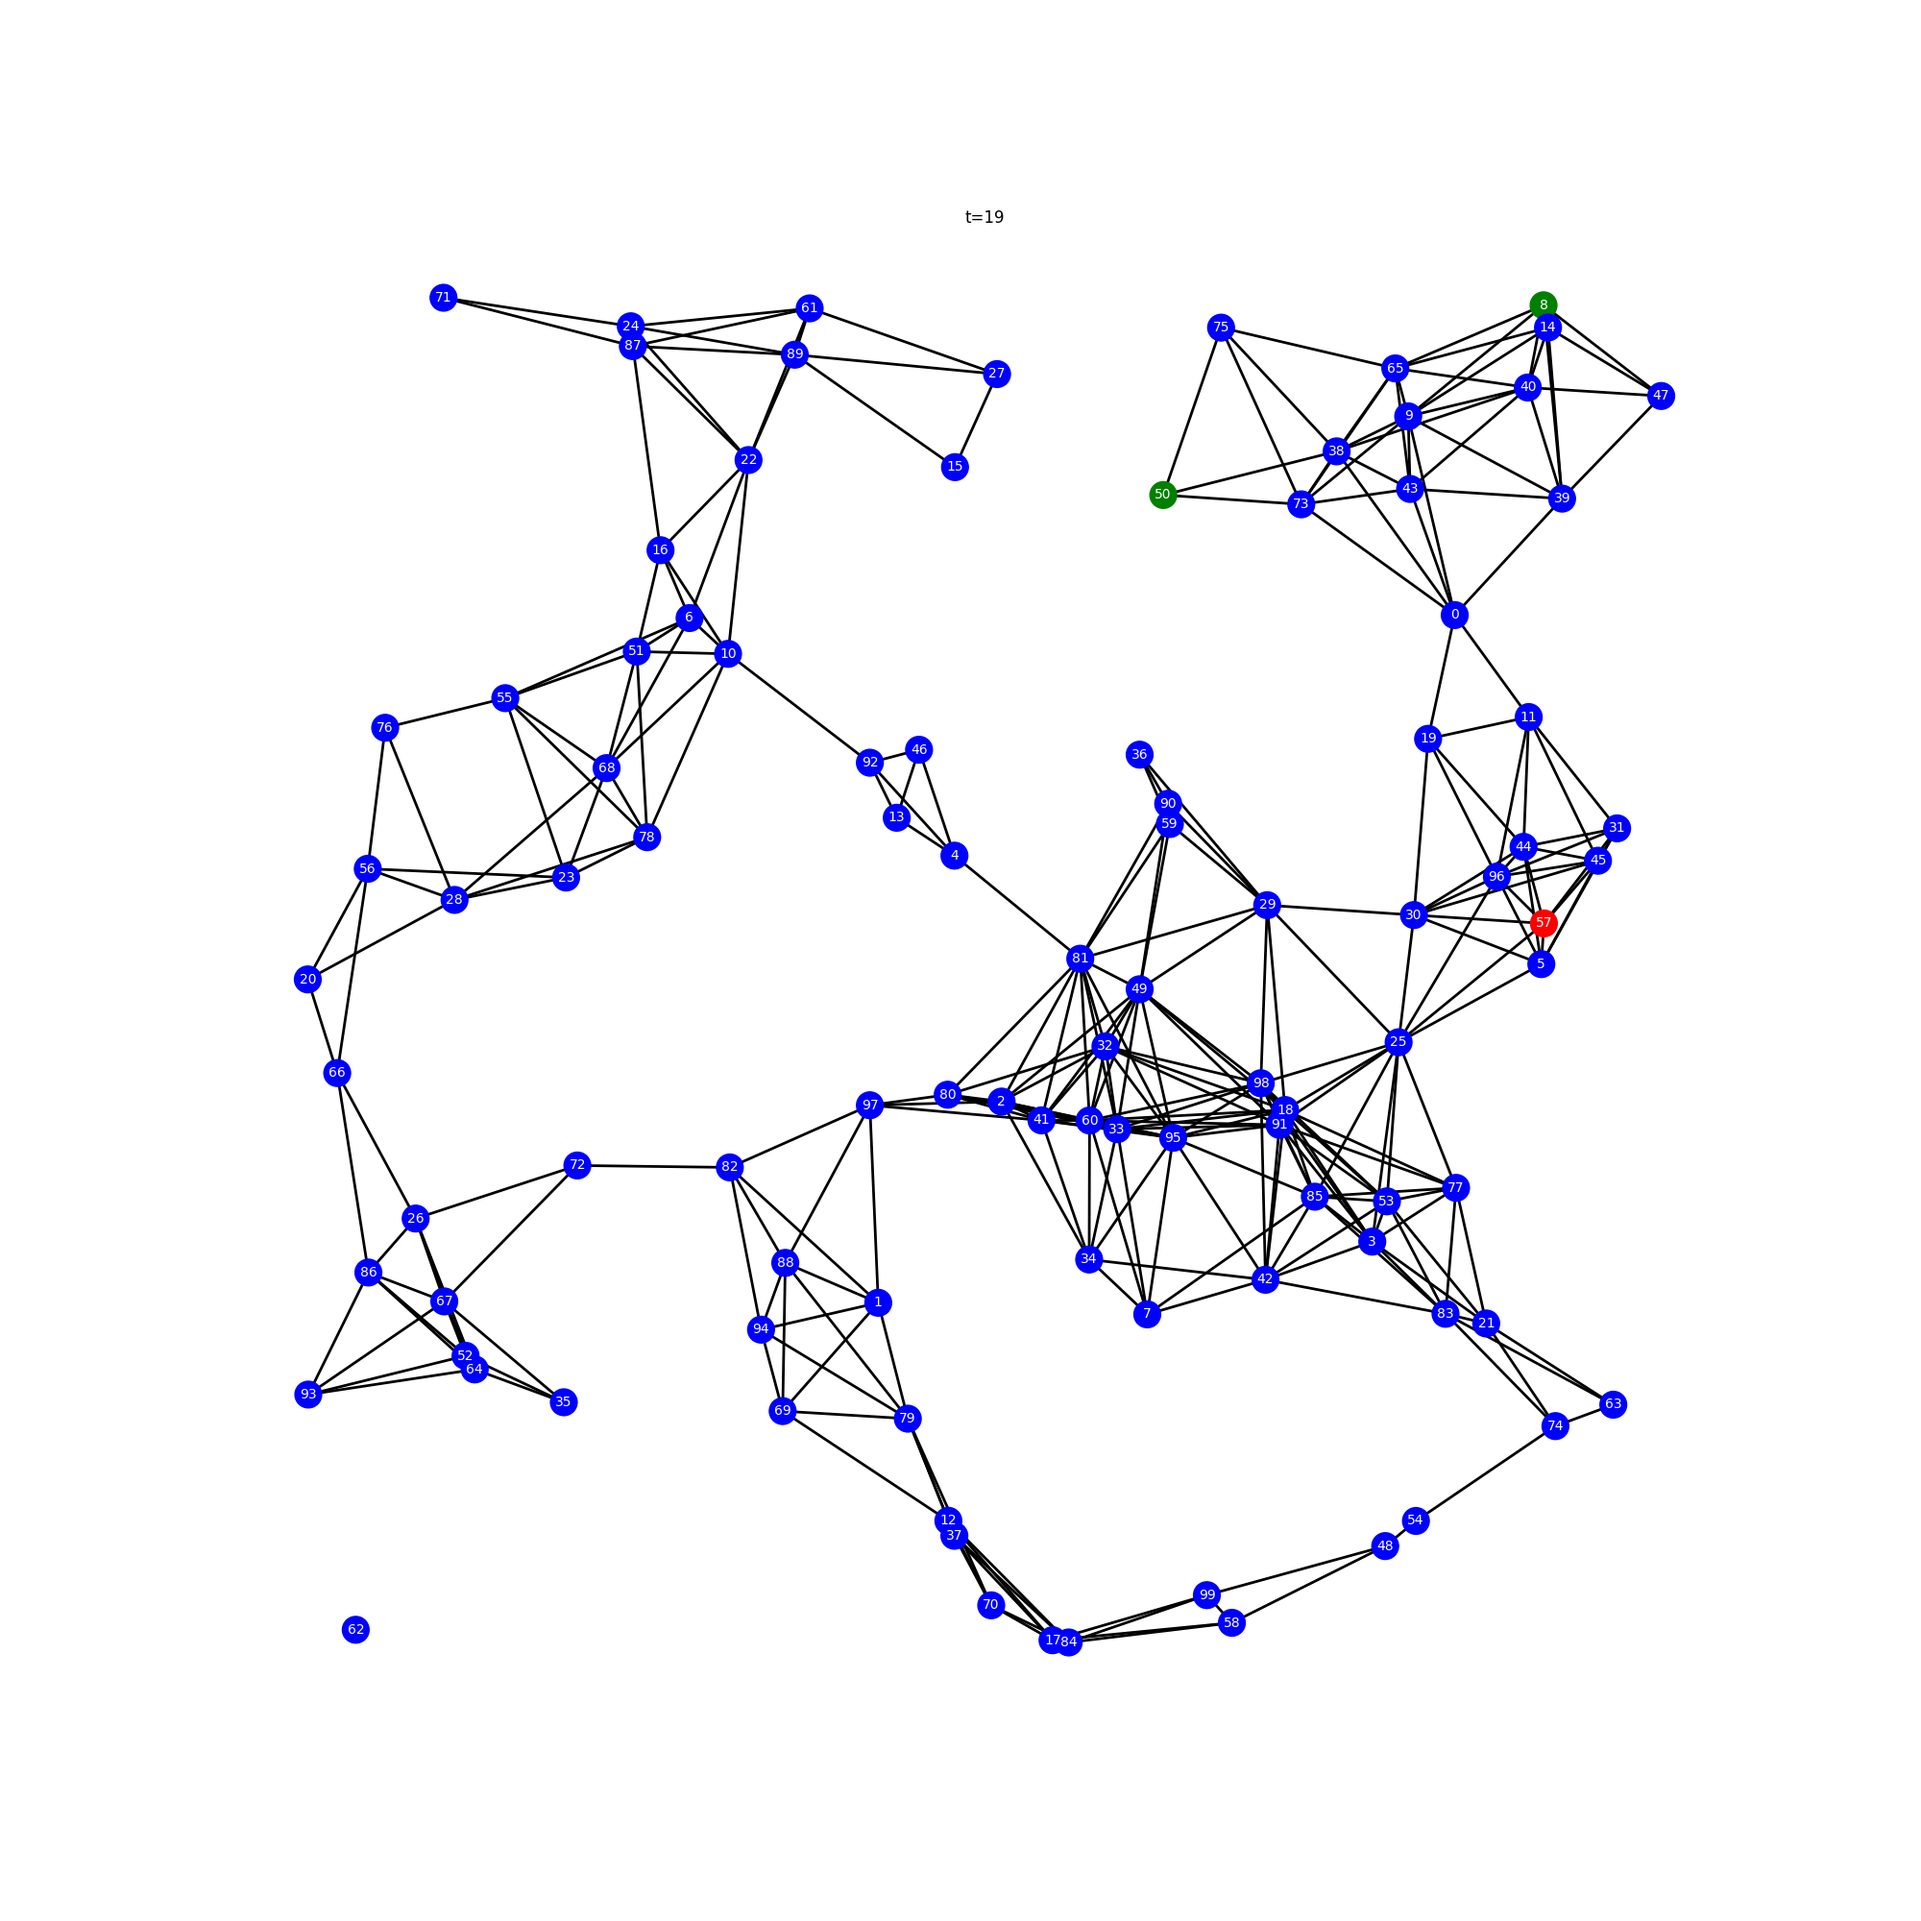
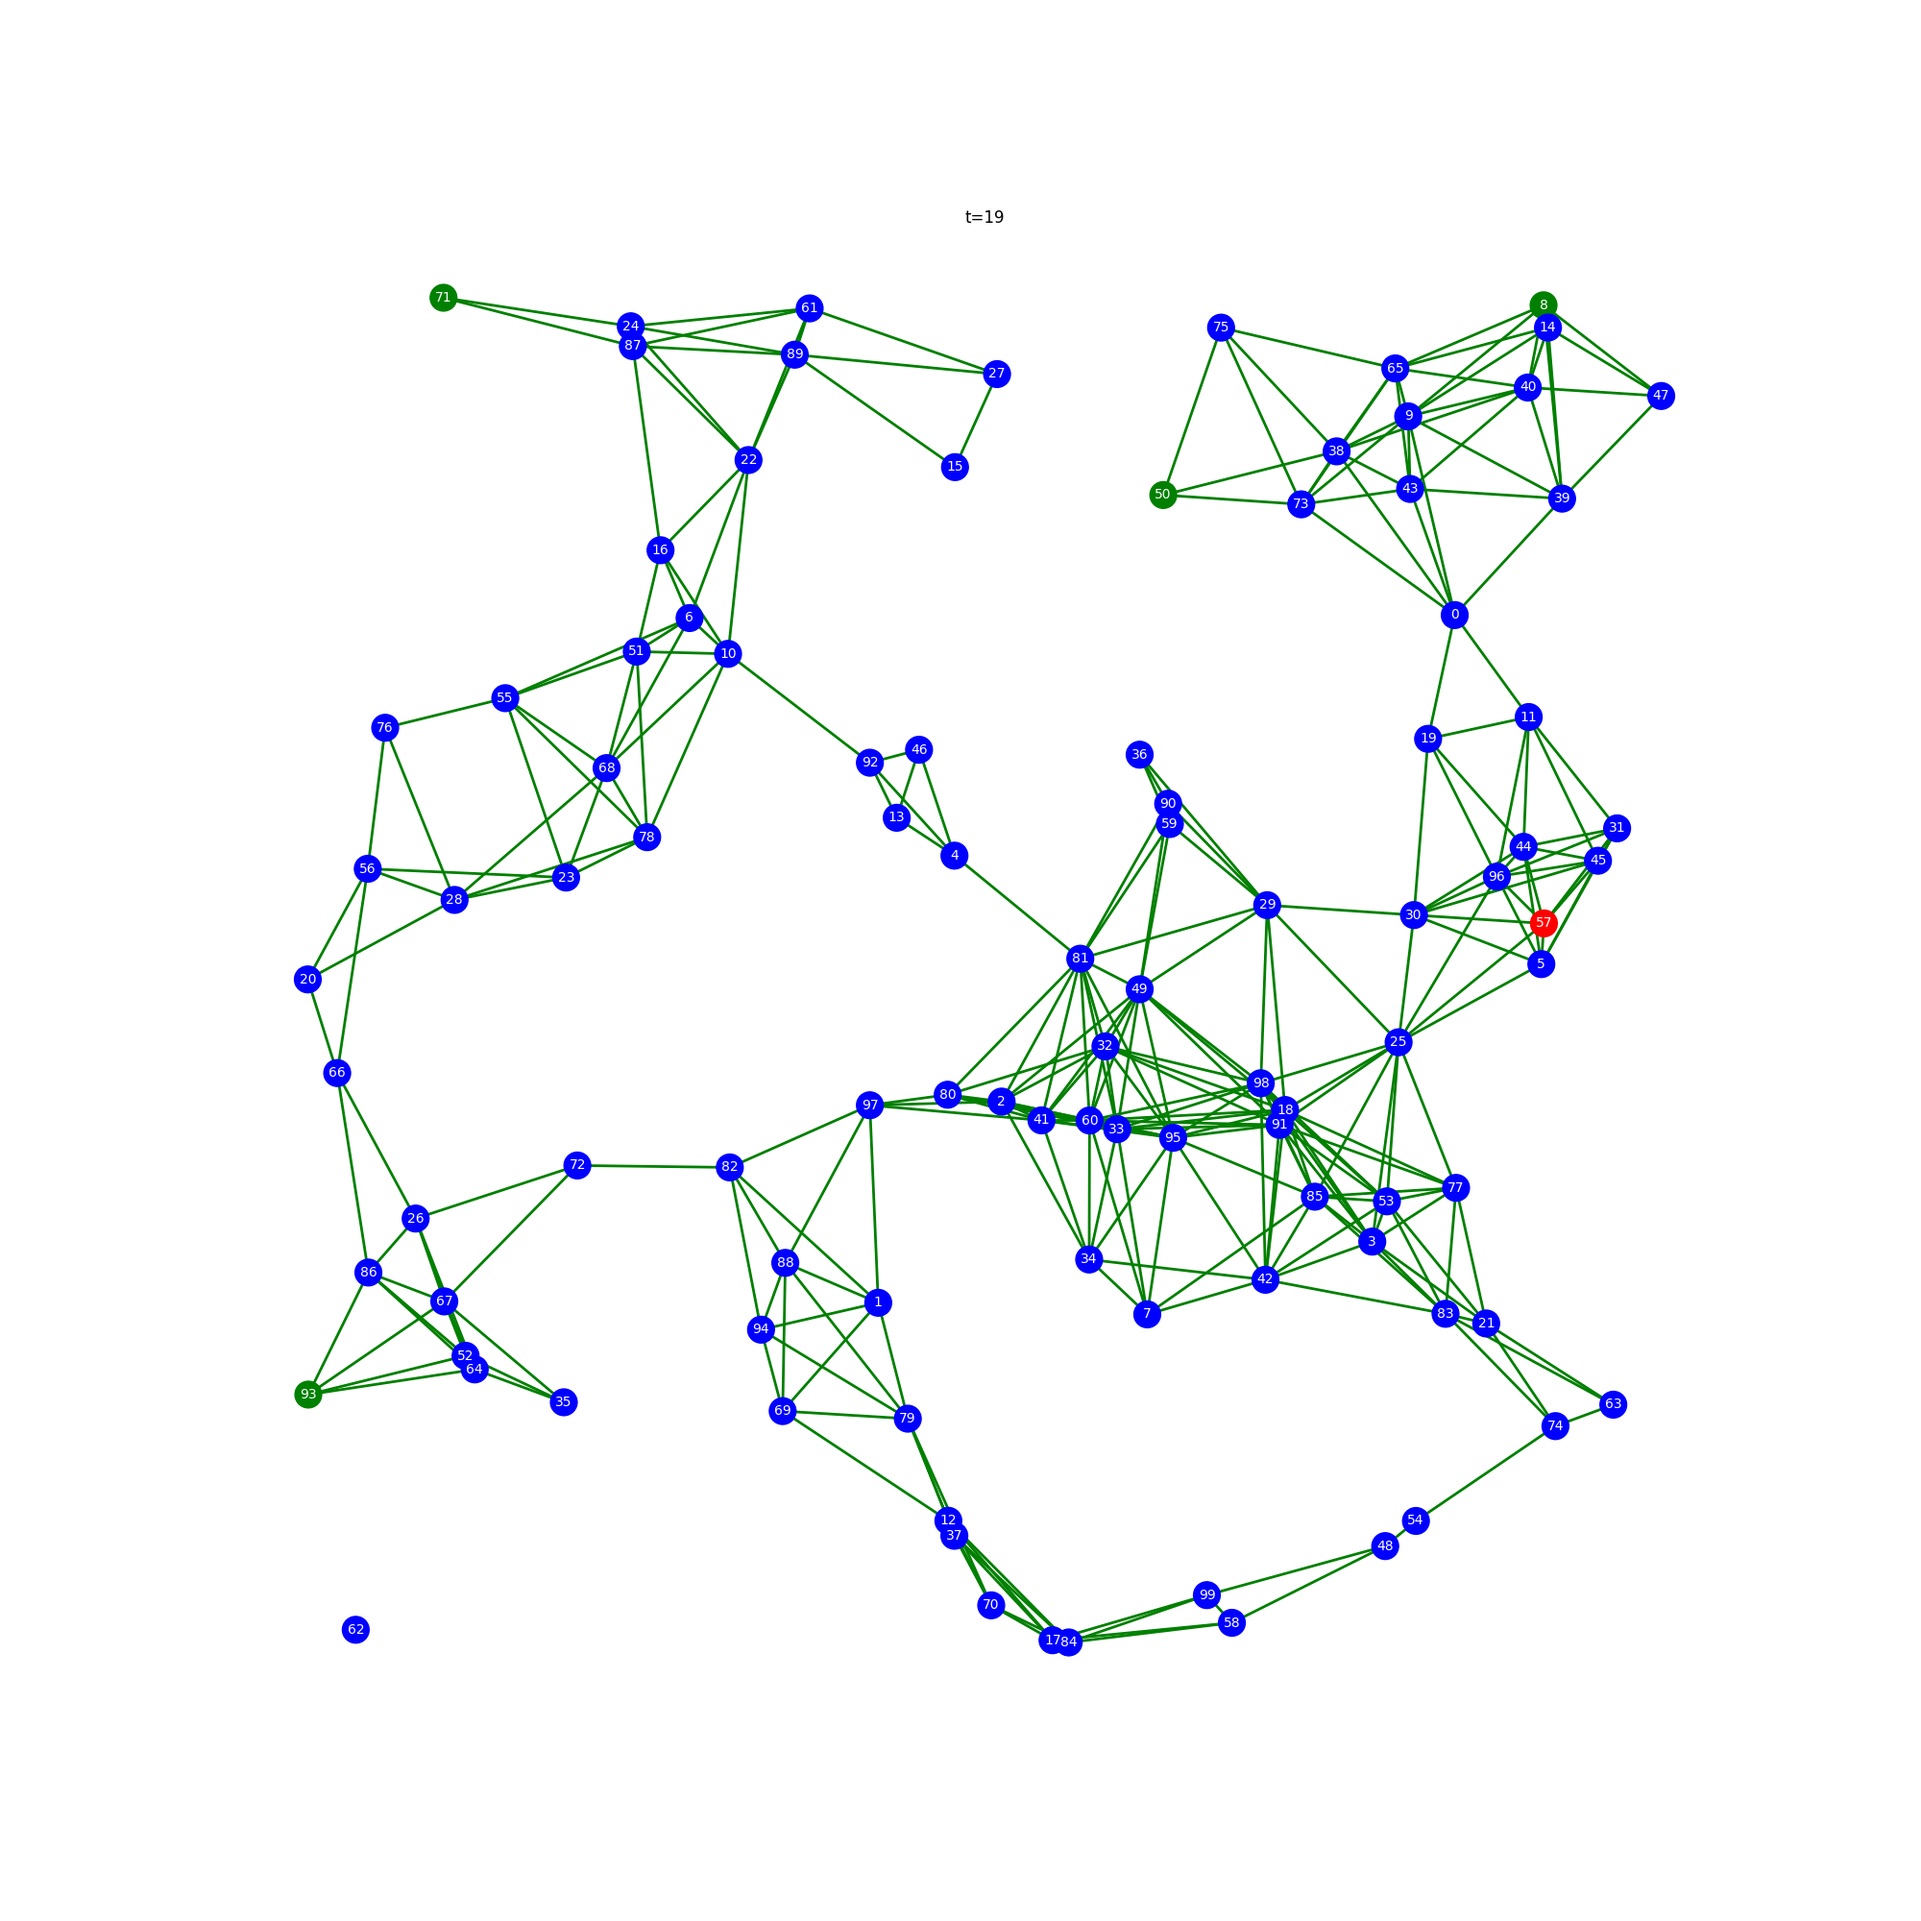
パケットの通信の可視化に取組中
エッジの数が2重？になっておりおかしい部分が多い，直さなかればならない　0 → 接続されたノードまでは行けた

diff --git a/Main.py b/Main.py
@@ -70,12 +70,17 @@ def get_nodes_name(nodes):  # ノードの名前を辞書型配列で返す
 
 def get_eges_color(edges, edges_communication):
   edges_color = []
+
   for edge_from, edge_to in edges:
-    color = "black"
-    for edge_c_from, edge_c_to in edges_communication:
-      if edge_from is edge_c_from and edge_to is edge_c_to:
-        color = "red"
+    color = "Green"
+    # if edge_to.number == 0:
+    #   color = "Red"
+    # for edge_c_from, edge_c_to in edges_communication:
+    #   if edge_from is edge_c_from and edge_to is edge_c_to:
+    #     color = "red"
+    #     print("{}→{} is Red".format(edge_from.number, edge_to.number))
     edges_color.append(color)
+    # print("{}→{}:{}".format(edge_from.number, edge_to.number, color))
 
   return edges_color
 
@@ -101,12 +106,12 @@ def main():
   want_content_node = 50
   nodes[want_content_node].set_packet("www.google.com/logo.png", nodes[have_content_node].position)
   nodes[want_content_node].request_content_id = "www.google.com/logo.png"
-  # want_content_node = 71
-  # nodes[want_content_node].set_packet("www.google.com/logo.png", nodes[have_content_node].position)
-  # nodes[want_content_node].request_content_id = "www.google.com/logo.png"
-  # want_content_node = 93
-  # nodes[want_content_node].set_packet("www.google.com/logo.png", nodes[have_content_node].position)
-  # nodes[want_content_node].request_content_id = "www.google.com/logo.png"
+  want_content_node = 71
+  nodes[want_content_node].set_packet("www.google.com/logo.png", nodes[have_content_node].position)
+  nodes[want_content_node].request_content_id = "www.google.com/logo.png"
+  want_content_node = 93
+  nodes[want_content_node].set_packet("www.google.com/logo.png", nodes[have_content_node].position)
+  nodes[want_content_node].request_content_id = "www.google.com/logo.png"
 
   fig = plt.figure(figsize=(20, 20))
 
@@ -130,7 +135,6 @@ def main():
       for n in _node.select_next_node:
         print("Node{} → Node{}".format(_node.number, n.number))
         edges_communication.append((_node, n))
-        edges_communication.append((n, _node))
 
     edges_color = get_eges_color(nodes_link, edges_communication)
 
@@ -141,7 +145,6 @@ def main():
     plt.title("t=" + str(i))
     # グラフの保存
     plt.savefig("Export/netork.png")
-
     # グラフの表示
     # plt.show()
     # nodes_move(nodes)
